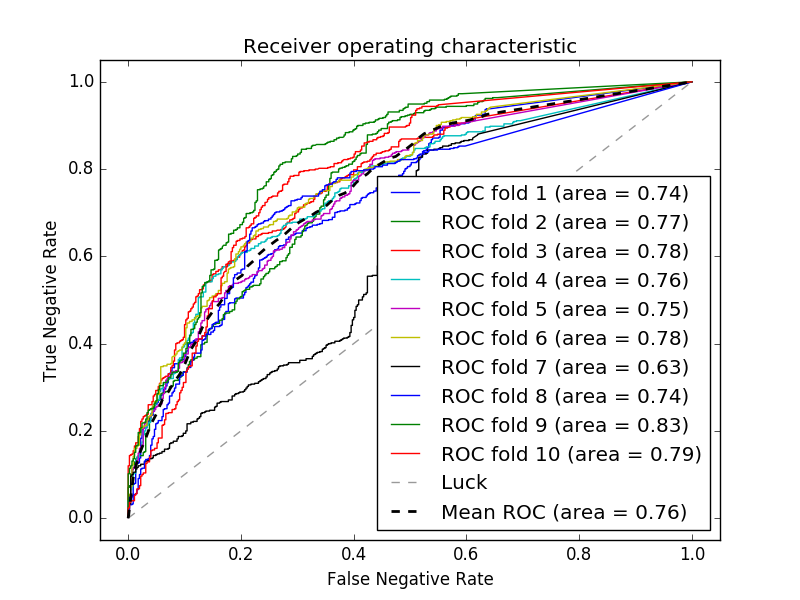
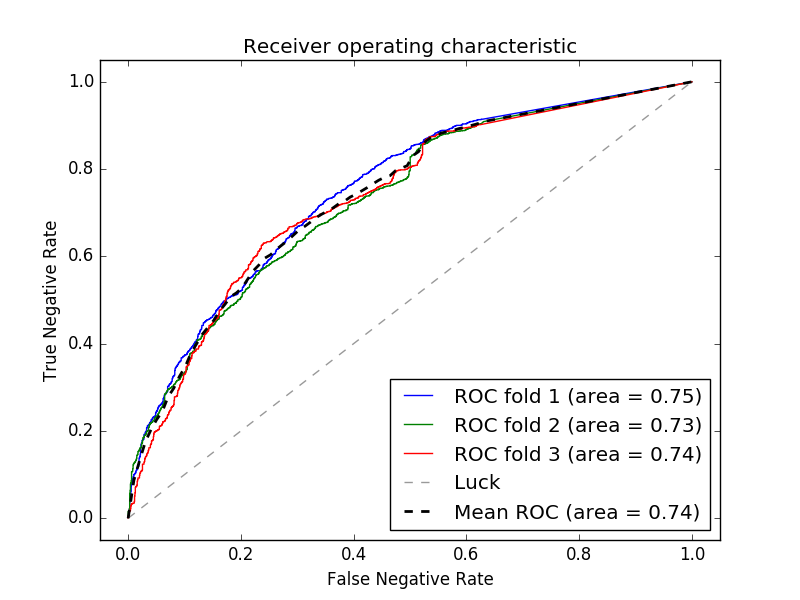
Corrected ROC curve image.

diff --git a/classify.py b/classify.py
@@ -36,7 +36,7 @@ def main():
     addData[0] = integerfy(addData[0])
     addData = np.transpose(np.matrix(addData))
     print("generating folds...")
-    cv = StratifiedKFold(targets, n_folds=10)
+    cv = StratifiedKFold(targets, n_folds=3)
     print("extracting text...")
     data = extract.fit_transform(texts)
     print("performing feature reduction")
@@ -75,7 +75,7 @@ def main():
     plt.ylabel('True Negative Rate')
     plt.title('Receiver operating characteristic')
     plt.legend(loc="lower right")
-    plt.savefig("ROC.png", figsize=)
+    plt.savefig("ROC.png")
     avf=0
     for i in f1s:
         avf+=i
